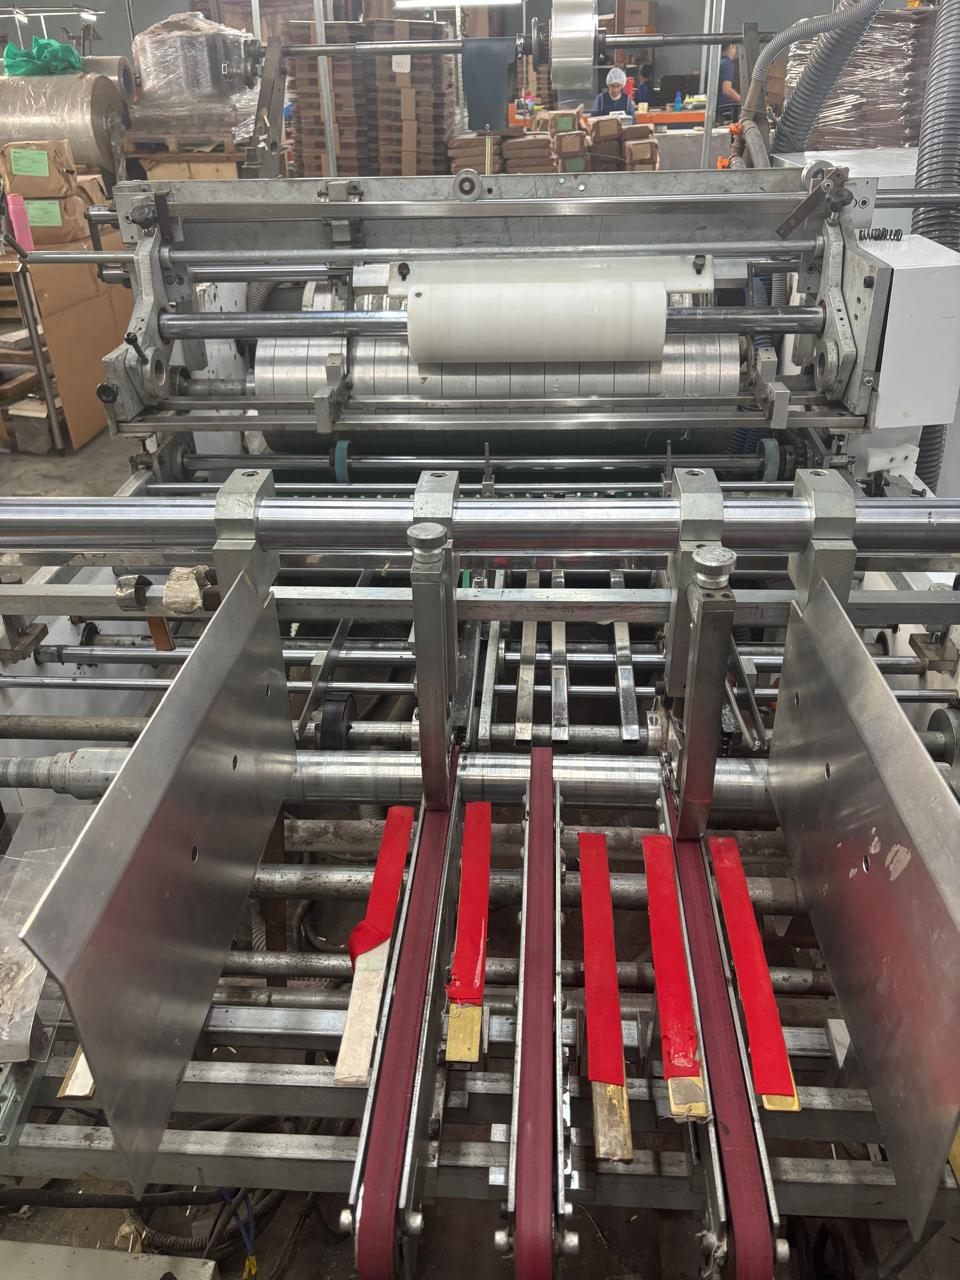
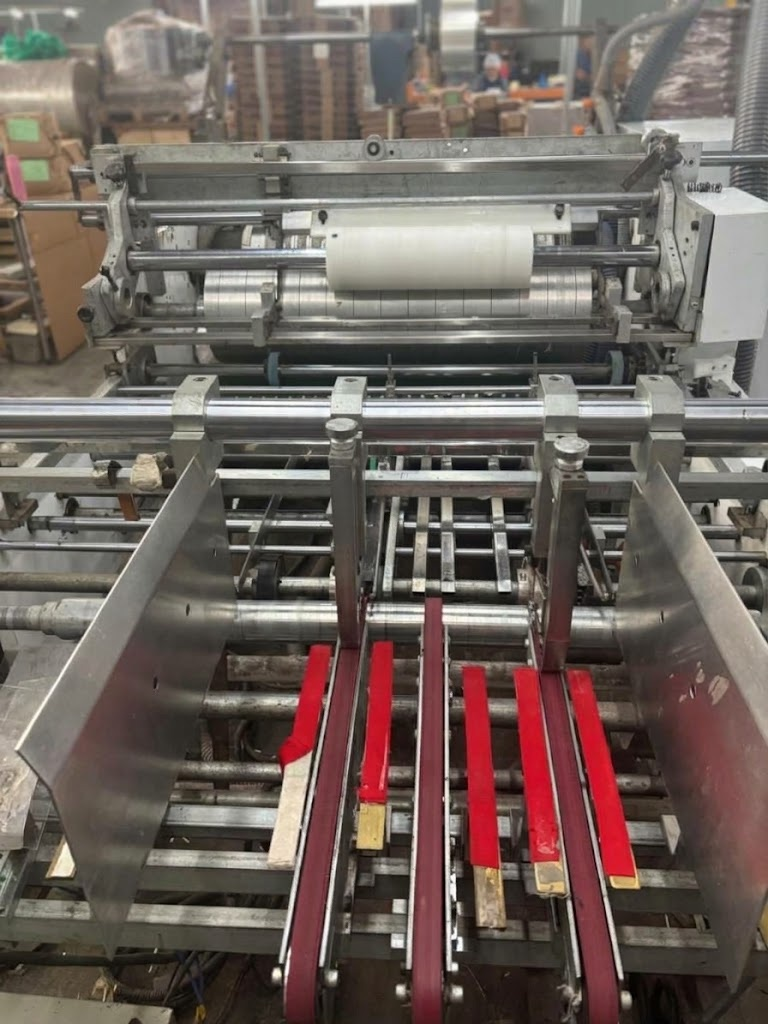
assets: replace acetate gluing machine photo

diff --git a/index.html b/index.html
@@ -231,8 +231,8 @@
                       <img
                         alt="Máquina de aplicação de acetato em embalagens"
                         src="assets/lenigraf/maquina-colagem-acetato.jpeg"
-                        width="960"
-                        height="1280"
+                        width="768"
+                        height="1024"
                         loading="lazy"
                         class="tab-img"
                       />
